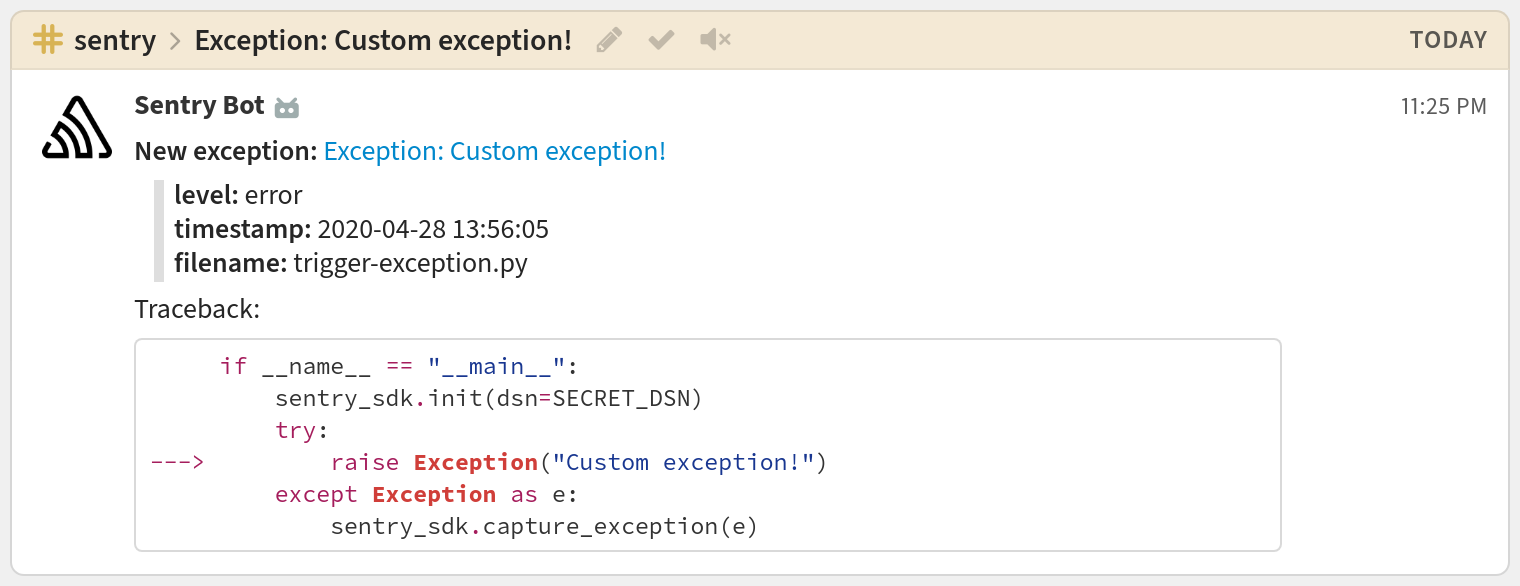
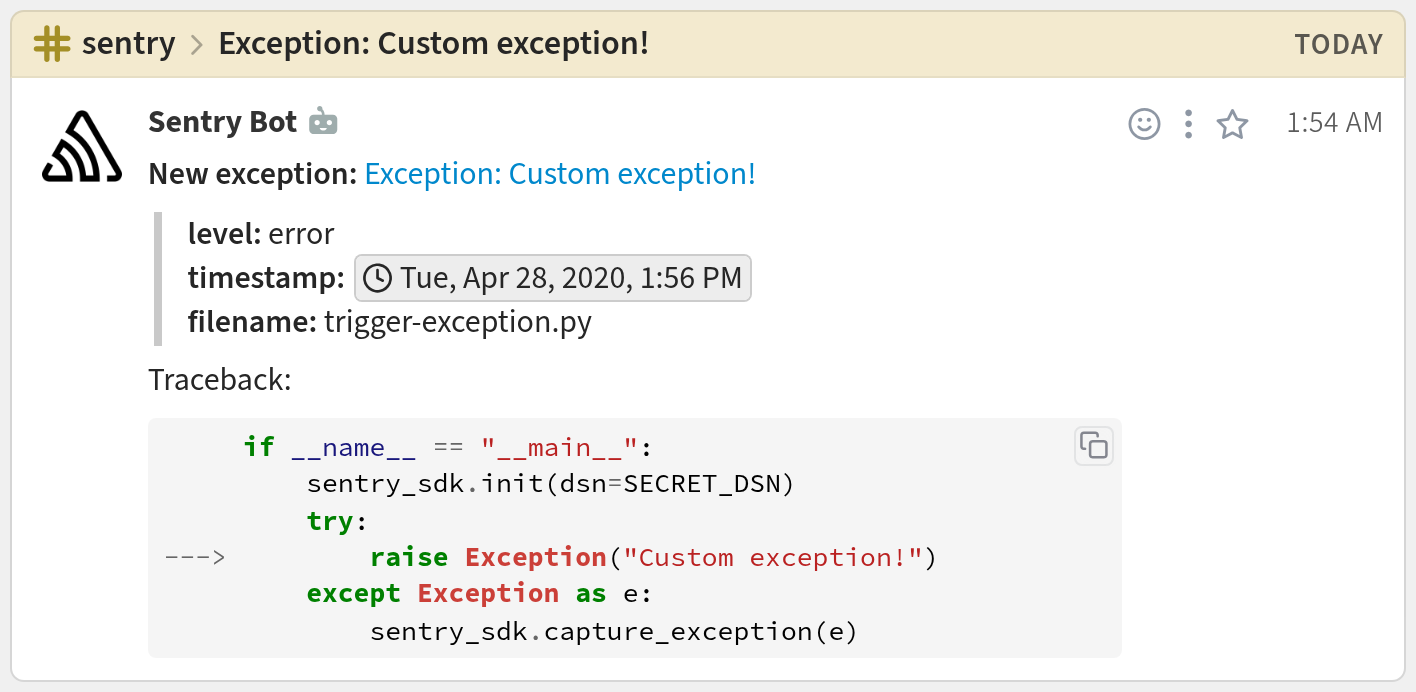
integrations/sentry: Use global time.

diff --git a/zerver/webhooks/sentry/tests.py b/zerver/webhooks/sentry/tests.py
@@ -12,7 +12,7 @@ class SentryHookTests(WebhookTestCase):
 **New exception:** [*url.Error: Get "bad_url": unsupported protocol scheme ""](https://sentry.io/organizations/hypro999-personal-organization/issues/1637164584/events/80777a9cc30e4d0eb8904333d5c298b0/)
 ```quote
 **level:** error
-**timestamp:** 2020-04-29 11:23:45
+**timestamp:** <time:2020-04-29 11:23:45>
 **filename:** trigger-exception.go
 ```
 
@@ -38,7 +38,7 @@ Traceback:
 **New exception:** [Error: Sample error from node.](https://sentry.io/organizations/hypro999-personal-organization/issues/1638852747/events/f9cb0f2afff74a5aa92e766fb7ac3fe3/)
 ```quote
 **level:** error
-**timestamp:** 2020-04-30 06:19:33
+**timestamp:** <time:2020-04-30 06:19:33>
 **filename:** /home/hemanth/Desktop/sentry/trigger-exception.js
 ```
 
@@ -64,7 +64,7 @@ Traceback:
 **New exception:** [Exception: Custom exception!](https://sentry.io/organizations/hypro999-personal-organization/issues/1635244907/events/599349254a1447a99774b5310711c1a8/)
 ```quote
 **level:** error
-**timestamp:** 2020-04-28 13:56:05
+**timestamp:** <time:2020-04-28 13:56:05>
 **filename:** trigger-exception.py
 ```
 
@@ -88,7 +88,7 @@ Traceback:
 **New exception:** [ZeroDivisionError: divided by 0](https://sentry.io/organizations/nitk-46/issues/4213933362/events/49b528e13e45497ab9adc3173fd2ed34/)
 ```quote
 **level:** error
-**timestamp:** 2023-05-29 10:12:33
+**timestamp:** <time:2023-05-29 10:12:33>
 **filename:** app/controllers/articles_controller.rb
 ```
 
@@ -117,7 +117,7 @@ Traceback:
 **New exception:** [TypeError: Cannot read properties of null (reading 'insertBefore')](https://sentry.io/organizations/nitk-46/issues/4214010673/events/292f78454e774e62999506f759ad791d/)
 ```quote
 **level:** error
-**timestamp:** 2023-05-29 11:08:30
+**timestamp:** <time:2023-05-29 11:08:30>
 **filename:** /node_modules/.vite/deps/chunk-G4DFXOZZ.js
 ```"""
         self.check_webhook("event_for_exception_vue", expected_topic_name, expected_message)
@@ -128,7 +128,7 @@ Traceback:
 **New exception:** [ValueError: new sentry error.](https://sentry.io/organizations/bar-foundation/issues/1972208801/events/c916dccfd58e41dcabaebef0091f0736/)
 ```quote
 **level:** error
-**timestamp:** 2020-10-21 23:25:11
+**timestamp:** <time:2020-10-21 23:25:11>
 **filename:** trigger-exception.py
 ```
 
@@ -153,7 +153,7 @@ Traceback:
 **New exception:** [TypeError: can't access property "bar", x.foo is undefined](https://sentry.io/organizations/foo-bar-org/issues/1982047746/events/f3bf5fc4e354451db9e885a69b2a2b51/)
 ```quote
 **level:** error
-**timestamp:** 2020-10-26 16:39:54
+**timestamp:** <time:2020-10-26 16:39:54>
 **filename:** None
 ```"""
         self.check_webhook(
@@ -166,7 +166,7 @@ Traceback:
 **New exception:** [Error: Something external broke.](https://sentry.io/organizations/hypro999-personal-organization/issues/1731239773/events/355c3b2a142046629dd410db2fdda003/)
 ```quote
 **level:** error
-**timestamp:** 2020-06-17 14:42:54
+**timestamp:** <time:2020-06-17 14:42:54>
 **filename:** /mnt/data/Documents/Stuff%20for%20Zulip/Repos/sentry/js/external.js
 ```"""
         self.check_webhook("event_for_exception_js", expected_topic_name, expected_message)
@@ -177,7 +177,7 @@ Traceback:
 **New message event:** [A test message event from golang.](https://sentry.io/organizations/hypro999-personal-organization/issues/1638844654/events/01ecb45633bc4f5ca940ada671124c8f/)
 ```quote
 **level:** info
-**timestamp:** 2020-04-30 06:14:13
+**timestamp:** <time:2020-04-30 06:14:13>
 ```"""
         self.check_webhook("event_for_message_golang", expected_topic_name, expected_message)
 
@@ -187,7 +187,7 @@ Traceback:
 **New message event:** [Test event from node.](https://sentry.io/organizations/hypro999-personal-organization/issues/1638840427/events/6886bb1fe7ce4497b7836f6083d5fd34/)
 ```quote
 **level:** info
-**timestamp:** 2020-04-30 06:09:56
+**timestamp:** <time:2020-04-30 06:09:56>
 ```"""
         self.check_webhook("event_for_message_node", expected_topic_name, expected_message)
 
@@ -197,7 +197,7 @@ Traceback:
 **New message event:** [A simple message-based issue.](https://sentry.io/organizations/hypro999-personal-organization/issues/1635261062/events/8da63b42375e4d3b803c377fefb062f8/)
 ```quote
 **level:** info
-**timestamp:** 2020-04-28 14:05:04
+**timestamp:** <time:2020-04-28 14:05:04>
 ```"""
         self.check_webhook("event_for_message_python", expected_topic_name, expected_message)
 
@@ -217,7 +217,7 @@ Traceback:
 **New issue created:** Exception: Custom exception!
 ```quote
 **level:** error
-**timestamp:** 2020-04-28 13:56:05
+**timestamp:** <time:2020-04-28 13:56:05>
 **assignee:** No one
 ```"""
         self.check_webhook("issue_created_for_exception", expected_topic_name, expected_message)
@@ -228,7 +228,7 @@ Traceback:
 **New issue created:** A simple message-based issue.
 ```quote
 **level:** info
-**timestamp:** 2020-04-28 14:05:04
+**timestamp:** <time:2020-04-28 14:05:04>
 **assignee:** No one
 ```"""
         self.check_webhook("issue_created_for_message", expected_topic_name, expected_message)
@@ -259,7 +259,7 @@ This is an example python exception
 **New message event:** [This is an example Python exception](https://sentry.io/organizations/nitk-46/issues/4218258981/events/b6eff1a49b1f4132850b1238d968da70/)
 ```quote
 **level:** error
-**timestamp:** 2023-05-31 11:06:16
+**timestamp:** <time:2023-05-31 11:06:16>
 ```"""
         self.check_webhook("sample_event_through_alert", expected_topic_name, expected_message)
 
@@ -269,7 +269,7 @@ This is an example python exception
 **New message event:** [This is an example Python exception](https://nitk-46.sentry.io/issues/4218258981/events/4dc4fc2858aa450eb658be9e5b8ad149/)
 ```quote
 **level:** error
-**timestamp:** 2023-07-09 20:41:24
+**timestamp:** <time:2023-07-09 20:41:24>
 ```"""
         self.check_webhook("sample_event_through_plugin", expected_topic_name, expected_message)
 

diff --git a/zerver/webhooks/sentry/view.py b/zerver/webhooks/sentry/view.py
@@ -24,7 +24,7 @@ MESSAGE_EVENT_TEMPLATE = """
 **New message event:** [{title}]({web_link})
 ```quote
 **level:** {level}
-**timestamp:** {datetime}
+**timestamp:** <time:{datetime}>
 ```
 """
 
@@ -32,7 +32,7 @@ EXCEPTION_EVENT_TEMPLATE = """
 **New exception:** [{title}]({web_link})
 ```quote
 **level:** {level}
-**timestamp:** {datetime}
+**timestamp:** <time:{datetime}>
 **filename:** {filename}
 ```
 """
@@ -53,7 +53,7 @@ ISSUE_CREATED_MESSAGE_TEMPLATE = """
 **New issue created:** {title}
 ```quote
 **level:** {level}
-**timestamp:** {datetime}
+**timestamp:** <time:{datetime}>
 **assignee:** {assignee}
 ```
 """
